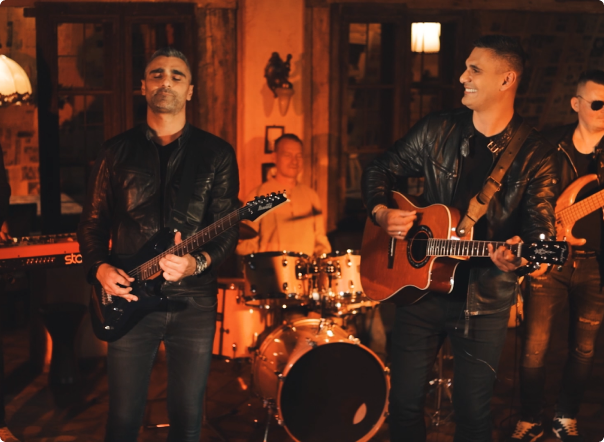
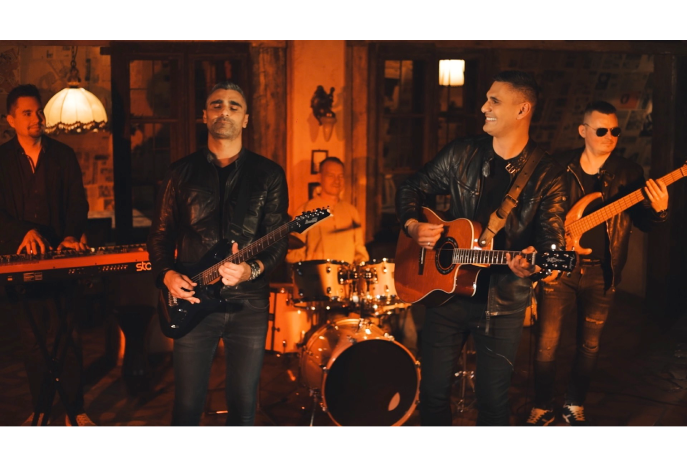
changes

diff --git a/index.html b/index.html
@@ -104,17 +104,17 @@
             </div>
             <div class="gallery">
                 <!-- Slider main container -->
-                    <div class="swiper">
+                    <div class="swiper swiper-container">
                         <!-- Additional required wrapper -->
                         <div class="swiper-wrapper">
                         <!-- Slides -->
-                        <div class="swiper-slide"><img width="604px" height="442px" src="/assets/gallery/1.png" alt="phoro-gallery"></div>
-                        <div class="swiper-slide"><img width="604px" height="442px" src="/assets/gallery/2.png" alt="phoro-gallery"></div>
-                        <div class="swiper-slide"><img width="604px" height="442px" src="/assets/gallery/7.png" alt="phoro-gallery"></div>
-                        <div class="swiper-slide"><img width="604px" height="442px" src="/assets/gallery/3.png" alt="phoro-gallery"></div>
-                        <div class="swiper-slide"><img width="604px" height="442px" src="/assets/gallery/4.png" alt="phoro-gallery"></div>
-                        <div class="swiper-slide"><img width="604px" height="442px" src="/assets/gallery/5.png" alt="phoro-gallery"></div>
-                        <div class="swiper-slide"><img width="604px" height="442px" src="/assets/gallery/6.png" alt="phoro-gallery"></div>
+                            <div class="swiper-slide"><img width="604px" height="442px" src="/assets/gallery/1.png" alt="phoro-gallery"></div>
+                            <div class="swiper-slide"><img width="604px" height="442px" src="/assets/gallery/2.png" alt="phoro-gallery"></div>
+                            <div class="swiper-slide"><img width="604px" height="442px" src="/assets/gallery/7.png" alt="phoro-gallery"></div>
+                            <div class="swiper-slide"><img width="604px" height="442px" src="/assets/gallery/3.png" alt="phoro-gallery"></div>
+                            <div class="swiper-slide"><img width="604px" height="442px" src="/assets/gallery/4.png" alt="phoro-gallery"></div>
+                            <div class="swiper-slide"><img width="604px" height="442px" src="/assets/gallery/5.png" alt="phoro-gallery"></div>
+                            <div class="swiper-slide"><img width="604px" height="442px" src="/assets/gallery/6.png" alt="phoro-gallery"></div>
                         
                         </div>
                         <!-- If we need pagination -->

diff --git a/style.css b/style.css
@@ -281,13 +281,18 @@ a {
   }
 
 
-.swiper {
+.swiper-container {
     width: 100%;
-    max-width: 600px;
+    height: 100%;
+    max-width: 700px;
     max-height: 550px;
   }
 
+
+
 .swiper-slide  {
+    width: 100%;
+    height: 100%;
     text-align: center;
     background: rgba(255, 255, 255, 0);
   
@@ -297,18 +302,16 @@ a {
     display: flex;
     -webkit-box-pack: center;
         -ms-flex-pack: center;
-            justify-content: center;
+            justify-content: center !important;
     -webkit-box-align: center;
         -ms-flex-align: center;
-            align-items: center;
+            align-items: center !important;
 }
 
 .swiper-slide img {
     display: block;
     width: 100%;
-    max-width: 600px;
-    max-height: 458px;
-    height: auto;
+    height: 100%;
     -o-object-fit:contain;
        object-fit:contain;
 }

diff --git a/js.js b/js.js
@@ -16,7 +16,7 @@ const loader = document.getElementById('preloader');
 
 window.addEventListener('load', function(load) {
   window.removeEventListener('load', load, false);               
-  setTimeout(function(){loader.style.display = 'none'},1000);
+  setTimeout(function(){loader.style.display = 'none'},1500);
 
   sr.reveal(`.container`, {distance: '150px', origin: 'center', distance: '0px',} )
   sr.reveal(`.video-container`, {duration: 2000,distance: '80px', origin: 'top',} )
@@ -55,7 +55,7 @@ var swiper = new Swiper(".swiper", {
     spaceBetween: 30,
     centeredSlides: true,
     autoplay: {
-      delay: 2500,
+      delay: 3000,
       disableOnInteraction: false,
     },
     pagination: {
